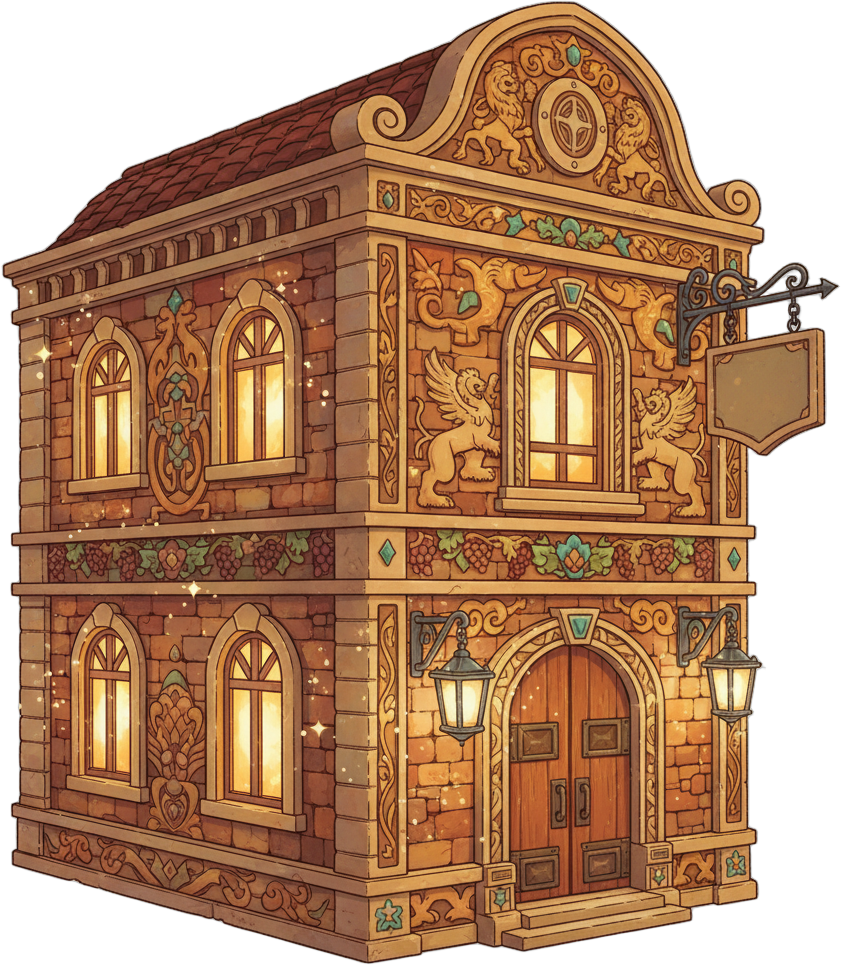
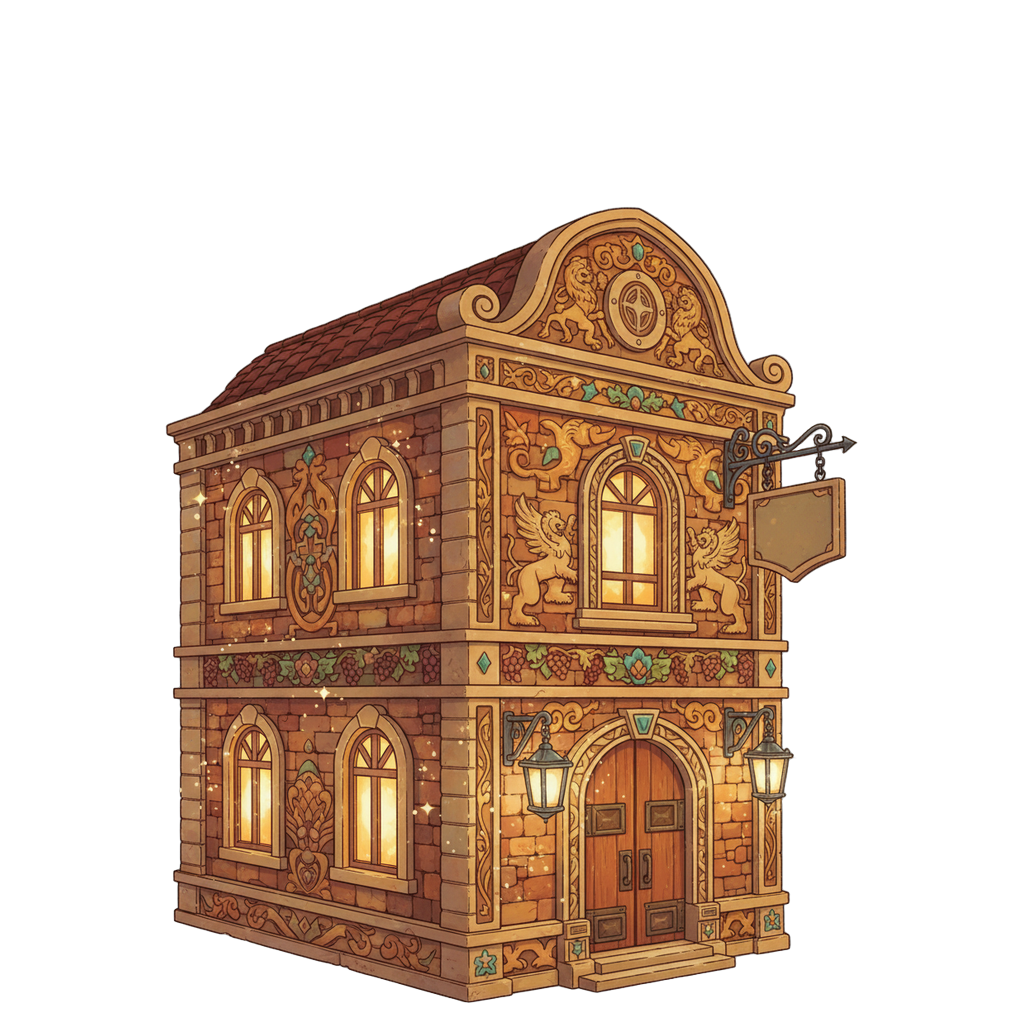
배럭 — 건물 시각 사이즈 균형 (1024x1024 캔버스 정규화)
문제: 소스 비율 제각각 (smithy 0.89:1, training 1.57:1) → 같은 width%로
표시해도 시각 사이즈 불균형. 공방=작게, 훈련장=납작하게 보임.

해결: normalize_buildings.py로 모든 건물을 1024x1024 동일 캔버스에
bottom-anchor로 재배치. 콘텐츠 점유율(fill_ratio):
- 주방/공방: 78% (중간 크기, 집 형태)
- 훈련장: 95% (가장 큼, 야외 시설)

HTML: 모든 건물 동일 width 34% + bottom% 좌표 → 지면 라인 일치 +
시각 균형 확보.

diff --git a/demo/index.html b/demo/index.html
@@ -96,16 +96,17 @@
       <!-- 메인 스테이지 (배경 + 건물) — 1:1 비율 -->
       <div class="bk-stage" id="bk-stage">
         <img class="bk-bg" src="./img/barracks/bg_reboldoeux_day.png" alt="" />
-        <!-- 건물 3개 — 분산 배치 (좌상/우상/중하 삼각형, 캐릭터 통로 확보) -->
-        <div class="bk-building" data-bld="kitchen" style="left:6%; top:42%; width:21%;">
+        <!-- 건물 3개 — 동일 캔버스(1024x1024) bottom-anchor 정규화 (normalize_buildings.py).
+             동일 width % + bottom% 좌표로 시각 사이즈/지면 라인 균형. -->
+        <div class="bk-building" data-bld="kitchen" style="left:0%; bottom:14%; width:34%;">
           <img src="./img/barracks/bld_kitchen_t0.png" alt="🍳 주방" />
           <span class="bk-bld-label">🍳 주방 <span class="bk-bld-lv">Lv 1</span></span>
         </div>
-        <div class="bk-building" data-bld="training" style="left:62%; top:42%; width:30%;">
+        <div class="bk-building" data-bld="training" style="right:0%; bottom:14%; width:34%;">
           <img src="./img/barracks/bld_training_t0.png" alt="⚔ 훈련장" />
           <span class="bk-bld-label">⚔ 훈련장 <span class="bk-bld-lv">Lv 1</span></span>
         </div>
-        <div class="bk-building" data-bld="smithy" style="left:36%; top:70%; width:25%;">
+        <div class="bk-building" data-bld="smithy" style="left:33%; bottom:0%; width:34%;">
           <img src="./img/barracks/bld_smithy_t0.png" alt="🔨 공방" />
           <span class="bk-bld-label">🔨 공방 <span class="bk-bld-lv">Lv 1</span></span>
         </div>
